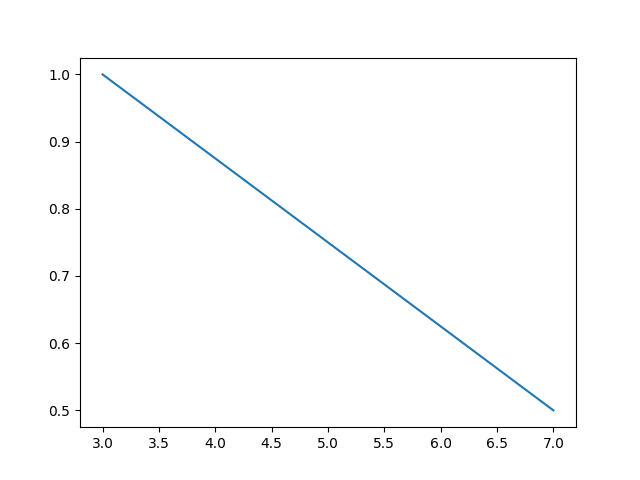
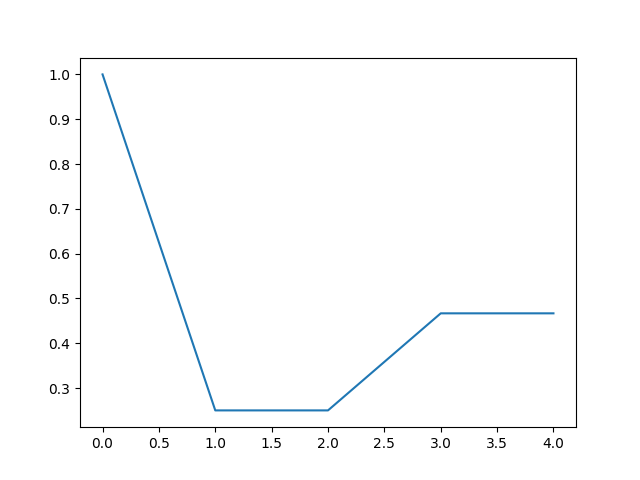
Changes Done

diff --git a/src/NetWalk_anomaly.py b/src/NetWalk_anomaly.py
@@ -16,7 +16,7 @@ from framework.load_email_eu import load_email_eu
 from framework.anomaly_detection import anomaly_detection
 from framework.anomaly_detection_stream import anomaly_detection_stream
 import matplotlib.pyplot as plt
-
+import sys
 from datetime import datetime
 import tensorflow as tf
 import numpy as np
@@ -42,43 +42,44 @@ def static_process(representation_size,walk_length,input,number_walks,init_perce
     # endregion
 
     # region Parameters
-    hidden_size = representation_size   # size of hidden codes to learn, default is 20
+    hidden_size = representation_size                 # size of hidden codes to learn, default is 20
     dimension = [n, hidden_size]
     activation = tf.nn.sigmoid
-    rho = 0.5                           # sparsity ratio
-    lamb = 0.0017                       # weight decay
-    beta = 1                            # sparsity weight
-    gama = 340                          # autoencoder weight
-    walk_len = walk_length
-    epoch = 30                          # number of epoch for optimizing, could be larger
-    batch_size = 40                     # should be smaller or equal to args.number_walks*n
-    learning_rate = 0.01                # learning rate, for adam, using 0.01, for rmsprop using 0.1
-    optimizer = "adam"                  #"rmsprop"#"gd"#"rmsprop" #"""gd"#""lbfgs"
-    corrupt_prob = [0]                  # corrupt probability, for denoising AE
-    ini_graph_percent = init_percent    # percent of edges in the initial graph
-    #anomaly_percent = 1 #0.1 for bigger               # percentage of anomaly edges in the testing edges
-    anomaly_percent = 0.1
-    alfa = 0.01 #0.5(paper)                        # updating parameter for online k-means to update clustering centroids
+    rho = 0.5                                         # sparsity ratio
+    lamb = 0.0017                                     # weight decay
+    beta = 1                                          # sparsity weight
+    gama = 340                                        # autoencoder weight
+    walk_len = walk_length                            # Length of each walk
+    epoch = 30                                        # number of epoch for optimizing, could be larger
+    batch_size = 40                                   # should be smaller or equal to args.number_walks*n
+    learning_rate = 0.01                              # learning rate, for adam, using 0.01, for rmsprop using 0.1
+    optimizer = "adam"                                #"rmsprop"#"gd"#"rmsprop" #"""gd"#""lbfgs"
+    corrupt_prob = [0]                                # corrupt probability, for denoising AE
+    ini_graph_percent = init_percent                  # percent of edges in the initial graph
+    alfa = 0.01 #0.5(paper)                           # updating parameter for online k-means to update clustering centroids
     if(datasetname=="karate"):
+        anomaly_percent = 0.1
         k=4
     elif(datasetname=="toy"):
+        anomaly_percent = 1
         k=2
     elif(datasetname=="cora"):
+        anomaly_percent = 0.1
         k=7
     elif(datasetname=="citeseer"):
+        anomaly_percent = 0.1
         k = 6
     elif (datasetname == "dolphin"):
-        k = 3                                                  # number of clusters for kmeans to clustering edges
+        anomaly_percent = 0.1
+        k = 3
 
     print("No of Clusters in Dataset "+str(datasetname)+" is "+str(k))
     # endregion
 
     # region STEP 1: Generates Anomaly data: training data and testing list of edges(for online updating)
     membership_path="./tmp/membership_"+datasetname+".txt"
-    synthetic_test, train_mat, train,anomalies = anomaly_generation(ini_graph_percent, anomaly_percent, data, n, m,membership_path)
+    synthetic_test, train_mat, train = anomaly_generation(ini_graph_percent, anomaly_percent, data, n, m,membership_path)
     data_zip = []
-    # data_zip.append(synthetic_test)
-    # data_zip.append(train)
     data_zip.append(synthetic_test)
     data_zip.append(train)
     # endregion
@@ -97,84 +98,43 @@ def static_process(representation_size,walk_length,input,number_walks,init_perce
     embedding = getEmbedding(embModel, ini_data, n)
     # endregion
 
-    # region dynaimically plot the anomaly score over different snapshots(Instantiate the plot)
-    #d_plot = DP.DynamicUpdate()
-    # endregion
 
     # region conduct anomaly detection using first snapshot of testing edges
-    accuracy=[]
-    networkLen=[]
-    test_piece=[]
-    trainvertices=np.unique(train)
-    for edge in anomalies:
-        if (edge[0] in trainvertices and edge[1] in trainvertices) :
-            test_piece.append(edge)
-    #test_piece=anomalies
-    test_piece=np.array(test_piece)
+    areaUnderCurve=[]
+    xValue=[]
+    test_piece=synthetic_test[0:snap, :]
     scores, auc, n0, c0, res, ab_score = anomaly_detection(embedding, train, test_piece, k)
-    accuracy.append(auc)
-    networkLen.append(len(train))
+    areaUnderCurve.append(auc)
+    xValue.append(0)
     #scores, auc, n0, c0, res, ab_score = anomaly_detection(embedding, train, synthetic_test, k)
     print('initial auc of anomaly detection:', auc)
     print('initial anomaly score:', ab_score)
-    # endregion
-
-    # region visualize anomaly score for initial setup
-    #d_plot.addPoint(1, ab_score)
     # endregion
 
     # region Online Increment
     # STEP 3: over different snapshots of edges, dynamically updating embeddings of nodes and conduct
     #         online anomaly detection for edges, visualize the anomaly score of each snapshot
     snapshotNum = 1
-    while(netwalk.hasNext()):
+    while (netwalk.hasNext()):
         # region Include next walks dynamically and find embedding
         snapshot_data = netwalk.nextOnehotWalks()
         embedding = getEmbedding(embModel, snapshot_data, n)
         # endregion
-        # for item in test_piece:
-        #     if(item[2]==0):
-        #         train = np.vstack((train, item[:2]))
-        # if netwalk.hasNext():
-        #     if len(synthetic_test) > snap*(snapshotNum+1):
-        #         #test_piece = synthetic_test[snap*snapshotNum:snap*(snapshotNum+1), :]
-        #         test_piece = synthetic_test[:snap * (snapshotNum + 1), :]
-        #     else:
-        #         #test_piece = synthetic_test[snap * snapshotNum:, :]
-        #         test_piece = synthetic_test
-
-        train=np.concatenate((train,synthetic_test[snap*(snapshotNum-1):snap*(snapshotNum),:2]),axis=0)
-        test_piece = []
-        #rows = train.flatten()
-        trainvertices1 = np.unique(train)
-        for edge in anomalies:
-            if (edge[0] in trainvertices and edge[1] in trainvertices1):
-                test_piece.append(edge)
-        test_piece = np.array(test_piece)
-        # else:
-        #     return
-
+        if netwalk.hasNext():
+            if len(synthetic_test) > snap * (snapshotNum + 1):
+                #test_piece = synthetic_test[snap * snapshotNum:snap * (snapshotNum + 1), :]
+                test_piece = synthetic_test[:snap * (snapshotNum + 1), :]
+            else:
+                test_piece = synthetic_test
         # online anomaly detection, each execution will update the clustering center
         scores, auc, n0, c0, res, ab_score = anomaly_detection_stream(embedding, train, test_piece, k, alfa, n0, c0)
-        accuracy.append(auc)
-        networkLen.append(len(train))
-        #scores, auc, n0, c0, res, ab_score = anomaly_detection_stream(embedding, train, synthetic_test, k, alfa, n0, c0)
-        print('auc of anomaly detection at snapshot %d: %f'  % (snapshotNum, auc))
+        print('auc of anomaly detection at snapshot %d: %f' % (snapshotNum, auc))
         print('anomaly score at snapshot %d: %f' % (snapshotNum, ab_score))
-
+        areaUnderCurve.append(auc)
+        xValue.append(snapshotNum)
         snapshotNum += 1
-
-        # visualizing anomaly score of current snapshot
-        #d_plot.addPoint(snapshotNum, ab_score)
-    cores, auc, n0, c0, res, ab_score = anomaly_detection_stream(embedding, train, test_piece, k, alfa, n0, c0)
-    print('Final Accuracy: %f' % (auc))
-    plt.plot(networkLen,accuracy)
+    plt.plot(xValue, areaUnderCurve)
     plt.savefig('../plots/anomalyaccuracy_' + datasetname + '.png')
-    # endregion
-
-    # region Figure Plot
-    # fig = d_plot.figure
-    # fig.savefig('../plots/anomalygraph_' + datasetname + '.png')
     # endregion
 
 
@@ -197,34 +157,37 @@ def getEmbedding(model, data, n):
 def main():
     # region Parameter Initialise
     init_percent = 0.5
-    # datasetname = 'karate'
-    # input = '../data/karate.edges'
+    datasetname=sys.argv[1]
+    #datasetname = 'karate'
     # datasetname = 'dolphin'
-    # input = '../data/dolphins.mtx'
+    #
     # datasetname = 'cora'
-    # input = '../data/cora.edgelist'
-    datasetname = 'citeseer'
-    input = '../data/citeseer.edgelist'
+    #
+    # datasetname = 'citeseer'
+    #
     # datasetname = 'toy'
-    # input = '../data/toy.edges'
     number_walks = 20
     output = './tmp/embedding_' + datasetname + '.txt'
     if (datasetname == "karate"):
+        input = '../data/karate.edges'
         snap = 10
         representation_size = 32
     elif (datasetname == "toy"):
+        input = '../data/toy.edges'
         snap = 2
         representation_size = 8
     elif (datasetname == "dolphin"):
+        input = '../data/dolphins.mtx'
         snap = 10
         representation_size = 32
     elif (datasetname == "cora"):
+        input = '../data/cora.edgelist'
         snap = 400
         representation_size = 64
     elif (datasetname == "citeseer"):
+        input = '../data/citeseer.edgelist'
         snap = 600
         representation_size = 128
-    seed = 24
     walk_length = 3
     # endregion
 

diff --git a/src/framework/anomaly_detection_stream.py b/src/framework/anomaly_detection_stream.py
@@ -75,10 +75,7 @@ def anomaly_detection_stream(embedding, train, synthetic_test, k, alfa, n0, c0):
         (alfa * c0 * np.transpose(np.tile(n0, (c0.shape[1], 1))) + (1 - alfa) * centroids * np.transpose(np.tile(n, (centroids.shape[1], 1)))), (
             alfa * np.transpose(np.tile(n0, (c0.shape[1], 1))) + (1 - alfa) * np.transpose(np.tile(n, (centroids.shape[1], 1)))))
 
-    #labels = synthetic_test[:, 2]
-    labels = []
-    for i in range(len(labels)):
-        labels.append(1)
+    labels = synthetic_test[:, 2]
 
     # calculating distances for testing edge codes to centroids of clusters
     dist_center = cdist(test_codes, c)
@@ -91,12 +88,12 @@ def anomaly_detection_stream(embedding, train, synthetic_test, k, alfa, n0, c0):
     scores = scores[::-1] + 1
 
     #calculating auc score of anomly detection task, in case that all labels are 0's or all 1's
-    # if np.sum(labels) == 0:
-    #     labels[0] = 1
-    # elif np.sum(labels) == len(labels):
-    #     labels[0] = 0
-    #
-    # auc = roc_auc_score(labels, min_dist)#scores)
+    if np.sum(labels) == 0:
+        labels[0] = 1
+    elif np.sum(labels) == len(labels):
+        labels[0] = 0
+
+    auc = roc_auc_score(labels, min_dist)#scores)
 
     # calculating distances for testing edge codes to centroids of clusters
     dist_center_tr = cdist(codes, c)
@@ -105,9 +102,5 @@ def anomaly_detection_stream(embedding, train, synthetic_test, k, alfa, n0, c0):
     res = [1 if x > max_dist_tr else 0 for x in min_dist]
     # ab_score = np.sum(res)/(1e-10 + len(res))
     ab_score = np.sum(min_dist) / (1e-10 + len(min_dist))
-    accuracy = 0
-    for result in res:
-        if (result == 1):
-            accuracy = accuracy + 1
-    auc = accuracy / len(res)
+
     return scores, auc, n, c, res, ab_score

diff --git a/src/framework/anomaly_detection.py b/src/framework/anomaly_detection.py
@@ -67,10 +67,7 @@ def anomaly_detection(embedding, train, synthetic_test, k):
     assert (len(n) == k)
 
 
-    #labels = synthetic_test[:, 2]
-    # labels=[]
-    # for i in range(len(labels)):
-    #     labels.append(1)
+    labels = synthetic_test[:, 2]
     # calculating distances for testing edge codes to centroids of clusters
     dist_center = cdist(test_codes, c)
     # assinging each testing edge code to nearest centroid
@@ -81,13 +78,12 @@ def anomaly_detection(embedding, train, synthetic_test, k):
 
 
     #calculating auc score of anomly detection task, in case that all labels are 0's or all 1's
-    # if np.sum(labels) == 0:
-    #     labels[0] = 1
-    # elif np.sum(labels) == len(labels):
-    #     labels[0] = 0
-    #
-    # auc = roc_auc_score(labels, min_dist)
+    if np.sum(labels) == 0:
+        labels[0] = 1
+    elif np.sum(labels) == len(labels):
+        labels[0] = 0
 
+    auc = roc_auc_score(labels, min_dist)
 
     # calculating distances for testing edge codes to centroids of clusters
     dist_center_tr = cdist(codes, c)
@@ -95,11 +91,7 @@ def anomaly_detection(embedding, train, synthetic_test, k):
     max_dist_tr = np.max(min_dist_tr)
     res = [1 if x > max_dist_tr else 0 for x in min_dist]
     ab_score = np.sum(min_dist) / (1e-10 + len(min_dist))
-    accuracy = 0
-    for result in res:
-        if(result==1):
-            accuracy=accuracy+1
-    auc=accuracy/len(res)
+
     return scores, auc, n, c, res, ab_score
 
 

diff --git a/src/framework/anomaly_generation.py b/src/framework/anomaly_generation.py
@@ -53,17 +53,6 @@ def anomaly_generation(ini_graph_percent, anomaly_percent, data, n, m,membership
     test = data[train_num:, :]
     # endregion
 
-    # region Spectral Clustering Part(Commented)
-    # Make Adjacency Matrix of whole Data
-    # data to adjacency_matrix(edgelist to Adj)
-    #adjacency_matrix = edgeList2Adj(data)
-
-    # clustering nodes to clusters using spectral clustering
-    # kk = 4
-    # sc = SpectralClustering(kk, affinity='precomputed', n_init=100, assign_labels = 'discretize')
-    # labels = sc.fit_predict(adjacency_matrix)
-    # endregion
-
     # region Read Cluster labeling from membership.txt file
     labels=[]
     with open(membership_path, 'r') as member:
@@ -114,8 +103,7 @@ def anomaly_generation(ini_graph_percent, anomaly_percent, data, n, m,membership
     # sparse(train(:,1), train(:,2), ones(length(train), 1), n, n) #TODO: node addition
     train_mat = train_mat + train_mat.transpose()
 
-    #return synthetic_test, train_mat, train
-    return test, train_mat, train,anomalies
+    return synthetic_test, train_mat, train
 
 
 
